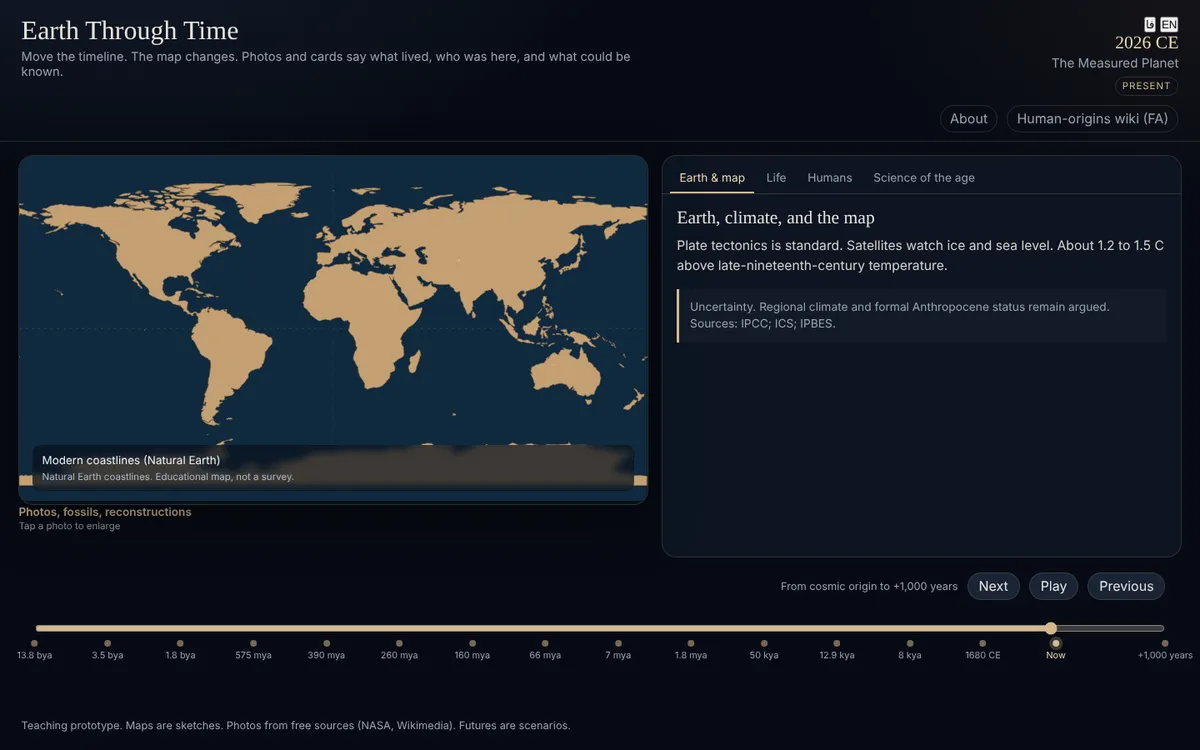
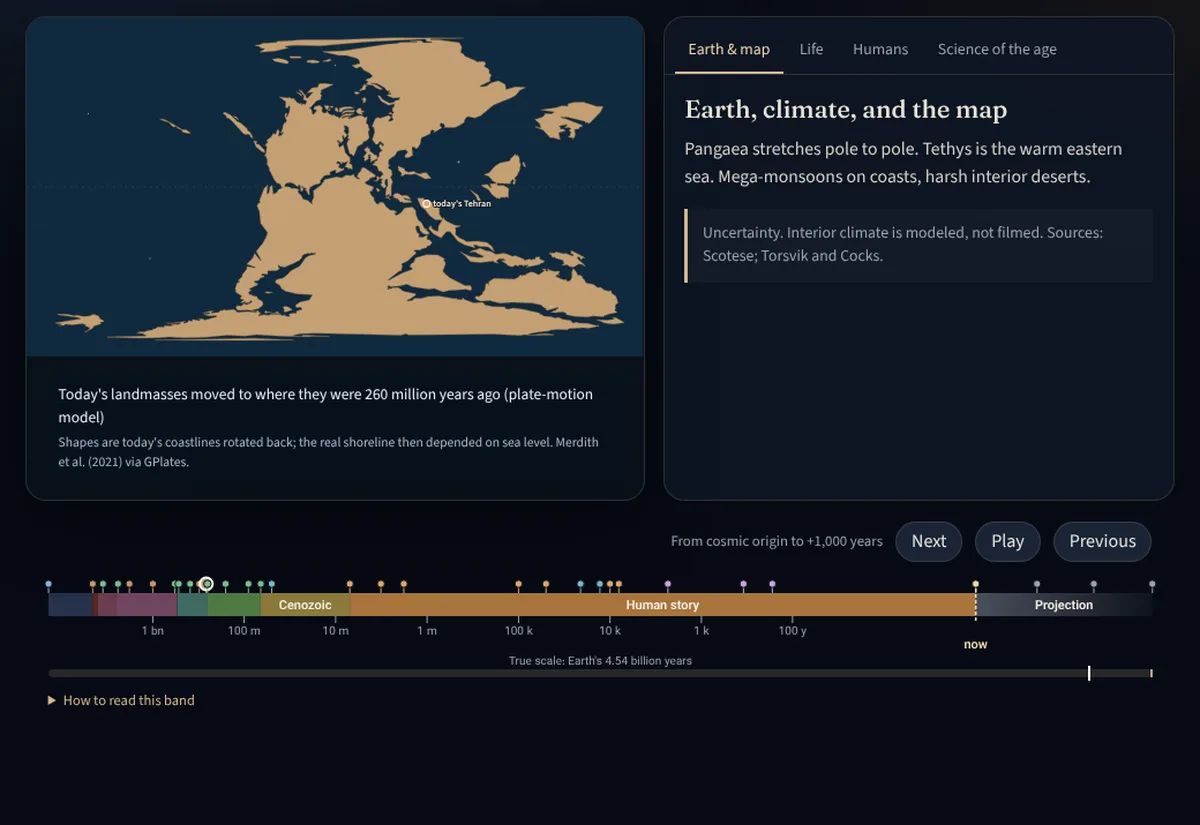
Portfolio: Slow Verse joins Selected work; atlas shown with its new time band and plate-model maps
- Slow Verse moves from More projects to Selected work, with a screenshot
  of the whole-archive timeline and role / built / decision lines about
  the data-visualisation work.
- Once Upon a Planet: new screenshot (Permian from the plate model, log
  time band) and text that says what was built.
- New skill: Data visualisation and information design (EN and FA).
- Pages regenerated with tools/build.py.

Claude-Session: https://claude.ai/code/session_016f1Khnm21m2Rzgn4s24Jbr

diff --git a/fa/index.html b/fa/index.html
@@ -127,9 +127,20 @@
 <div class="meta"><span class="pill">آموزش</span><span class="pill">داده</span></div>
 <div class="title-row"><svg class="ic lg" aria-hidden="true"><use href="#i-planet"/></svg><h3>روزی روزگاری، زمین</h3></div>
 <p class="aka">نام محصول: <span class="ltr">Chrono Atlas</span></p><p class="pulse"><span>آخرین تغییر: </span><time datetime="2026-11-18T08:31+01:00" data-rel>۱۸ نوامبر ۲۰۲۶</time></p>
-<p>نوار زمان را از مهبانگ تا هزار سال بعد بکشید و ببینید قارهها، زندگی و جامعهها زیر دستتان چطور عوض میشوند.</p>
-<ul class="facts"><li><span>نقش من</span>چشمانداز محصول، نقشهٔ راه انتشار، اصول داده</li><li><span>ساختهشده</span>نقشه و نوار زمان، فهرست پایگاههای دادهای علمی، نمای پوشش داده</li><li><span>تصمیم</span>هر ادعا منبع دارد؛ جای خالیِ داده، خالی نشان داده میشود، نه سرزمین خالی</li></ul>
+<p>یک نوار را از مهبانگ تا هزار سال بعد بکشید و ببینید قارهها، زندگی و جامعهها چطور عوض میشوند. نوار مقیاس واقعی زیرش نشان میدهد داستان انسان چقدر باریک است.</p>
+<ul class="facts"><li><span>نقش من</span>چشمانداز محصول، نقشهٔ راه انتشار، اصول داده، طراحی اطلاعات</li><li><span>ساختهشده</span>نوار زمان لگاریتمی؛ نقشهها از مدل منتشرشدهٔ حرکت ورقهها (Merdith و همکاران ۲۰۲۱) با جای تهرانِ امروز؛ فهرست پایگاههای دادهای علمی</li><li><span>تصمیم</span>هر ادعا منبع دارد؛ جای خالیِ داده، خالی نشان داده میشود، نه سرزمین خالی</li></ul>
 <div class="links"><a class="btn sm" href="https://maryamjaberi.github.io/earth-through-time/">باز کردن</a><a class="textlink" href="https://github.com/MaryamJaberi/earth-through-time-new">کد</a></div>
+</div>
+</article>
+<article class="feature">
+<div class="shot"><img src="../assets/img/fa/verse.webp" alt="شعرِ آهسته" loading="lazy" width="1200" height="750"></div>
+<div>
+<div class="meta"><span class="pill">مصورسازی داده</span><span class="pill">فرهنگ</span></div>
+<div class="title-row"><svg class="ic lg" aria-hidden="true"><use href="#i-verse"/></svg><h3>شعرِ آهسته</h3></div>
+<p class="aka">نام محصول: <span class="ltr">گنجور نو</span></p><p class="pulse"><span>آخرین تغییر: </span><time datetime="2026-11-19T19:23+01:00" data-rel>۱۹ نوامبر ۲۰۲۶</time></p>
+<p>شعر فارسی را آهسته بخوانید و یکجا ببینید: ۲۴۶ شاعر روی یک خط زمانِ بزرگشدنی، زادگاههایی که با گذر سدهها روشن میشوند، اینکه چه کسی از چه کسی بیت گرفت، و خاندانهای شاهنامه به شکل درختی واقعی.</p>
+<ul class="facts"><li><span>نقش من</span>طراحی محصول و اطلاعات: چه چیزی، در چه بزرگنمایی، برای چه کسی</li><li><span>ساختهشده</span>خوانشخانهای روی رابط باز گنجور؛ پنج نمای گردشپذیر از کل گنجینه</li><li><span>تصمیم</span>اول کل تصویر، بعد گردش؛ نامها روی هم نمیافتند و نامهای مهم هرگز بینام نمیمانند</li></ul>
+<div class="links"><a class="btn sm" href="https://maryamjaberi.github.io/ganjoor-no/">باز کردن</a><a class="textlink" href="https://github.com/MaryamJaberi/ganjoor-no-new">کد</a></div>
 </div>
 </article>
 </div>
@@ -140,7 +151,6 @@
 <ul class="mlist">
 <li><svg class="ic lg" aria-hidden="true"><use href="#i-bazaar"/></svg><div><h3>بازارچهٔ دانش</h3><p class="aka" style="margin:0">نام محصول: دانشسرا</p><p>پنج ویکی فارسی که با هم حرف میزنند: روانشناسی، جامعهشناسی، ژنتیک، فلسفه و زبانشناسی، با ۲۵ پلِ مشخص میانشان. هر منبع درجهبندی شده.</p><p class="pulse"><span>آخرین تغییر: </span><time datetime="2026-11-19T04:36+00:00" data-rel>۱۹ نوامبر ۲۰۲۶</time></p><div class="links"><a class="textlink" href="../daneshsara/">باز کردن</a></div></div></li>
 <li><svg class="ic lg" aria-hidden="true"><use href="#i-night"/></svg><div><h3>شبگردان</h3><p class="aka" style="margin:0">نام محصول: میز خدا</p><p>دستیار گردانندهٔ مافیا: پخش نقش، اجرای شب، شمارش رأی. قانونها دادهاند، پس سناریوی تازه برنامهنویس لازم ندارد.</p><p class="pulse"><span>آخرین تغییر: </span><time datetime="2026-11-18T08:30+01:00" data-rel>۱۸ نوامبر ۲۰۲۶</time></p><div class="links"><a class="textlink" href="../mafia/">باز کردن</a><a class="textlink" href="https://github.com/MaryamJaberi/Mafia-new">کد</a></div></div></li>
-<li><svg class="ic lg" aria-hidden="true"><use href="#i-verse"/></svg><div><h3>شعرِ آهسته</h3><p class="aka" style="margin:0">نام محصول: گنجور نو</p><p>شعر فارسی را آهسته بخوانید: بازطراحی آرامترِ شناختهشدهترین آرشیو آنلاین شعر فارسی.</p><p class="pulse"><span>آخرین تغییر: </span><time datetime="2026-11-19T19:23+01:00" data-rel>۱۹ نوامبر ۲۰۲۶</time></p><div class="links"><a class="textlink" href="https://maryamjaberi.github.io/ganjoor-no/">باز کردن</a><a class="textlink" href="https://github.com/MaryamJaberi/ganjoor-no-new">کد</a></div></div></li>
 <li><svg class="ic lg" aria-hidden="true"><use href="#i-side"/></svg><div><h3>شانهبهشانه</h3><p class="aka" style="margin:0">نام کاری: همراه</p><p>کسی را پیدا کنید که با او کار کنید، یاد بگیرید یا بیرون بروید. نسخهٔ اول ساخته شده؛ شش انتشار بعدی مستند شدهاند.</p><div class="links"><span class="soon">در حال ساخت</span></div></div></li>
 </ul>
 </div>
@@ -159,7 +169,7 @@
 </section>
 <section class="sec" id="experience" aria-labelledby="xp-h">
 <div class="wrap xp">
-<div class="side"><h2 id="xp-h">سابقه</h2><h3>مهارتهای محصول</h3><ul><li>مالکیت نقشهٔ راه و بکلاگ</li><li>کشف و اولویتبندی</li><li>مدیریت ذینفعان</li><li>اجایل و اسکرام</li><li>معیارها و تست A/B</li></ul><h3>مهارتهای طراحی</h3><ul><li>پژوهش کاربر و تست کاربردپذیری</li><li>معماری اطلاعات</li><li>طراحی خدمت و بازی</li><li>نمونهسازی</li></ul><h3>تحصیلات</h3><ul><li>کارشناسی ارشد مهندسی صنایع، ۲۰۲۳</li><li>گواهی طراحی UX گوگل</li><li>گواهی مدیر محصول IBM</li><li>اجایل و اسکرام، IBM / SkillUp</li></ul></div>
+<div class="side"><h2 id="xp-h">سابقه</h2><h3>مهارتهای محصول</h3><ul><li>مالکیت نقشهٔ راه و بکلاگ</li><li>کشف و اولویتبندی</li><li>مدیریت ذینفعان</li><li>اجایل و اسکرام</li><li>معیارها و تست A/B</li></ul><h3>مهارتهای طراحی</h3><ul><li>پژوهش کاربر و تست کاربردپذیری</li><li>معماری اطلاعات</li><li>مصورسازی داده و طراحی اطلاعات</li><li>طراحی خدمت و بازی</li><li>نمونهسازی</li></ul><h3>تحصیلات</h3><ul><li>کارشناسی ارشد مهندسی صنایع، ۲۰۲۳</li><li>گواهی طراحی UX گوگل</li><li>گواهی مدیر محصول IBM</li><li>اجایل و اسکرام، IBM / SkillUp</li></ul></div>
 <div><div class="job"><div class="yr">۲۰۲۲ تا امروز</div><div><h3>طراح مستقل محصول و بازی</h3><p class="co">روتردام</p><p>هشت محصول از خودم ساختهام: هفتتا منتشر شده و یکی در حال ساخت است. SoloNovate را راه انداختم تا هوای تیم را به سازمانهای هلندی عرضه کنم.</p></div></div><div class="job"><div class="yr">۲۰۲۰ تا ۲۰۲۲</div><div><h3>مدیر محصول جستوجو</h3><p class="co">همراه اول، بیش از ۱۰۰۰ کارمند</p><p>نقشهٔ راه جستوجوی خرید را رهبری کردم. تشخیص گفتار فارسی را از صفر با ۳۰۰۰ ساعت صدای اعتبارسنجیشده شروع کردم. بیش از ۱۰۰۰ فروشنده را وارد کردم، جعبههای پاسخ را در بیش از ۲۰ سرویس راه انداختم (۱۰٪ کلیک درست بیشتر) و خطاهای انتشار بینتیمی را ۱۰٪ کم کردم.</p></div></div><div class="job"><div class="yr">۲۰۱۸ تا ۲۰۲۰</div><div><h3>Associate Product Manager</h3><p class="co">آرشان مدیا (گپفیلم)</p><p>مالک ویدیوی درخواستی در اندروید، اندروید تیوی، وب، کودک و CMS بودم. کاربران را از ۶۰ هزار به بیش از ۵ میلیون رساندیم، میانگین نشست حدود پنج دقیقه بیشتر شد و CMS برای بیش از ۱۰۰ ادمین بزرگ شد.</p></div></div><div class="job"><div class="yr">۲۰۱۶ تا ۲۰۱۸</div><div><h3>Product Owner</h3><p class="co">شایا فناوریهای هوشمند</p><p>اسکرام را راه انداختم (حدود ۱۰٪ باگ کمتر) و بکلاگ سامانهٔ دانشگاه پیام نور با ۱۹ میلیون دانشجو را مدیریت کردم. در راهاندازی مدیااد سهم داشتم که بعدها دومین پلتفرم بزرگ تبلیغات بومی ایران شد.</p></div></div></div>
 </div>
 </section>

diff --git a/index.html b/index.html
@@ -127,9 +127,20 @@
 <div class="meta"><span class="pill">Education</span><span class="pill">Data</span></div>
 <div class="title-row"><svg class="ic lg" aria-hidden="true"><use href="#i-planet"/></svg><h3>Once Upon a Planet</h3></div>
 <p class="aka">Live as: <span class="ltr">Chrono Atlas</span></p><p class="pulse"><span>Last change: </span><time datetime="2026-11-18T08:31+01:00" data-rel>18 Nov 2026</time></p>
-<p>Drag a timeline from the Big Bang to 1,000 years ahead and watch continents, life and societies change under your cursor.</p>
-<ul class="facts"><li><span>Role</span>Product vision, release roadmap, data principles</li><li><span>Built</span>Map and timeline, a catalogue of scholarly databases, a data-coverage view</li><li><span>Decision</span>Every claim carries its source; missing data is shown as missing, never as empty land</li></ul>
+<p>Drag one band from the Big Bang to 1,000 years ahead and watch continents, life and societies change. A true-scale strip under it shows how thin the human story really is.</p>
+<ul class="facts"><li><span>Role</span>Product vision, release roadmap, data principles, information design</li><li><span>Built</span>Log-scale time band; maps from a published plate model (Merdith et al. 2021) with today's Tehran marked; a catalogue of scholarly databases</li><li><span>Decision</span>Every claim carries its source; missing data is shown as missing, never as empty land</li></ul>
 <div class="links"><a class="btn sm" href="https://maryamjaberi.github.io/earth-through-time/">Open</a><a class="textlink" href="https://github.com/MaryamJaberi/earth-through-time-new">Code</a></div>
+</div>
+</article>
+<article class="feature">
+<div class="shot"><img src="assets/img/en/verse.webp" alt="Slow Verse" loading="lazy" width="1200" height="750"></div>
+<div>
+<div class="meta"><span class="pill">Data visualisation</span><span class="pill">Culture</span></div>
+<div class="title-row"><svg class="ic lg" aria-hidden="true"><use href="#i-verse"/></svg><h3>Slow Verse</h3></div>
+<p class="aka">Live as: <span class="ltr">Ganjoor No</span></p><p class="pulse"><span>Last change: </span><time datetime="2026-11-19T19:23+01:00" data-rel>19 Nov 2026</time></p>
+<p>Persian poetry, read slowly, and seen whole: 246 poets on one zoomable timeline, birthplaces lighting up as the centuries play, who borrowed lines from whom, and the Shahnameh's families as a real tree.</p>
+<ul class="facts"><li><span>Role</span>Product and information design: what to show, at what zoom, for whom</li><li><span>Built</span>A reader on Ganjoor's open API; five pan-and-zoom views of the whole archive</li><li><span>Decision</span>Show the whole first, then let people wander; names never overlap and the important ones are never left unnamed</li></ul>
+<div class="links"><a class="btn sm" href="https://maryamjaberi.github.io/ganjoor-no/">Open</a><a class="textlink" href="https://github.com/MaryamJaberi/ganjoor-no-new">Code</a></div>
 </div>
 </article>
 </div>
@@ -140,7 +151,6 @@
 <ul class="mlist">
 <li><svg class="ic lg" aria-hidden="true"><use href="#i-bazaar"/></svg><div><h3>Knowledge Bazaar</h3><p class="aka" style="margin:0">Live as: Daneshsara</p><p>Five Persian wikis that talk to each other: psychology, sociology, genetics, philosophy and linguistics, joined by 25 mapped bridges. Every source graded.</p><p class="pulse"><span>Last change: </span><time datetime="2026-11-19T04:36+00:00" data-rel>19 Nov 2026</time></p><div class="links"><a class="textlink" href="daneshsara/">Open</a></div></div></li>
 <li><svg class="ic lg" aria-hidden="true"><use href="#i-night"/></svg><div><h3>Night Shift</h3><p class="aka" style="margin:0">Live as: Miz Khoda</p><p>The Mafia narrator's assistant: deal roles, run the night, count the votes. Rules are data, so a new scenario needs no developer.</p><p class="pulse"><span>Last change: </span><time datetime="2026-11-18T08:30+01:00" data-rel>18 Nov 2026</time></p><div class="links"><a class="textlink" href="mafia/">Open</a><a class="textlink" href="https://github.com/MaryamJaberi/Mafia-new">Code</a></div></div></li>
-<li><svg class="ic lg" aria-hidden="true"><use href="#i-verse"/></svg><div><h3>Slow Verse</h3><p class="aka" style="margin:0">Live as: Ganjoor No</p><p>Persian poetry, read slowly: a calmer redesign of the best-known online poetry archive.</p><p class="pulse"><span>Last change: </span><time datetime="2026-11-19T19:23+01:00" data-rel>19 Nov 2026</time></p><div class="links"><a class="textlink" href="https://maryamjaberi.github.io/ganjoor-no/">Open</a><a class="textlink" href="https://github.com/MaryamJaberi/ganjoor-no-new">Code</a></div></div></li>
 <li><svg class="ic lg" aria-hidden="true"><use href="#i-side"/></svg><div><h3>Side by Side</h3><p class="aka" style="margin:0">Working name: Hamrah</p><p>Find someone to work, learn or go out with. MVP built; the next six releases are specified.</p><div class="links"><span class="soon">In progress</span></div></div></li>
 </ul>
 </div>
@@ -159,7 +169,7 @@
 </section>
 <section class="sec" id="experience" aria-labelledby="xp-h">
 <div class="wrap xp">
-<div class="side"><h2 id="xp-h">Experience</h2><h3>Product</h3><ul><li>Roadmaps and backlog ownership</li><li>Discovery and prioritisation</li><li>Stakeholder management</li><li>Agile and Scrum</li><li>Metrics and A/B testing</li></ul><h3>Design</h3><ul><li>UX research and usability testing</li><li>Information architecture</li><li>Service and game design</li><li>Prototyping</li></ul><h3>Education</h3><ul><li>MSc Industrial Engineering, 2023</li><li>Google UX Design certificate</li><li>IBM Product Manager certificate</li><li>Agile and Scrum, IBM / SkillUp</li></ul></div>
+<div class="side"><h2 id="xp-h">Experience</h2><h3>Product</h3><ul><li>Roadmaps and backlog ownership</li><li>Discovery and prioritisation</li><li>Stakeholder management</li><li>Agile and Scrum</li><li>Metrics and A/B testing</li></ul><h3>Design</h3><ul><li>UX research and usability testing</li><li>Information architecture</li><li>Data visualisation and information design</li><li>Service and game design</li><li>Prototyping</li></ul><h3>Education</h3><ul><li>MSc Industrial Engineering, 2023</li><li>Google UX Design certificate</li><li>IBM Product Manager certificate</li><li>Agile and Scrum, IBM / SkillUp</li></ul></div>
 <div><div class="job"><div class="yr">2022 – now</div><div><h3>Independent product and game designer</h3><p class="co">Rotterdam</p><p>Built eight products of my own: seven are live, one is in progress. Founded SoloNovate to offer Teamweather to Dutch organisations.</p></div></div><div class="job"><div class="yr">2020 – 2022</div><div><h3>Product Manager, Search</h3><p class="co">Hamrahe Aval (MCI), 1,000+ employees</p><p>Led the shopping-search roadmap. Started Persian speech recognition from zero with 3,000 hours of validated audio. Onboarded 1,000+ retailers, launched answer boxes on 20+ services (+10% correct clicks) and cut cross-team release errors by 10%.</p></div></div><div class="job"><div class="yr">2018 – 2020</div><div><h3>Associate Product Manager</h3><p class="co">Arshan Media (GapFilm)</p><p>Owned video-on-demand across Android, Android TV, web, kids and CMS. Grew users from 60,000 to over 5 million, added about five minutes to average sessions and scaled the CMS to 100+ admins.</p></div></div><div class="job"><div class="yr">2016 – 2018</div><div><h3>Product Owner</h3><p class="co">Shaya Smart Technologies</p><p>Introduced Scrum (about 10% fewer bugs) and owned the backlog for Payame Noor University's platform, 19 million students. Co-launched MediaAd, later Iran's second-largest native advertising platform.</p></div></div></div>
 </div>
 </section>

diff --git a/tools/build.py b/tools/build.py
@@ -69,17 +69,21 @@ EN = dict(
                     ("built", "Installable offline web app; CEFR-levelled learning spin-off with three modes"),
                     ("status", "Live; playtests with real groups are next")]),
         dict(key="planet", aka="Chrono Atlas", tags=["Education", "Data"],
-             p="Drag a timeline from the Big Bang to 1,000 years ahead and watch continents, life and societies change under your cursor.",
-             facts=[("role", "Product vision, release roadmap, data principles"),
-                    ("built", "Map and timeline, a catalogue of scholarly databases, a data-coverage view"),
+             p="Drag one band from the Big Bang to 1,000 years ahead and watch continents, life and societies change. A true-scale strip under it shows how thin the human story really is.",
+             facts=[("role", "Product vision, release roadmap, data principles, information design"),
+                    ("built", "Log-scale time band; maps from a published plate model (Merdith et al. 2021) with today's Tehran marked; a catalogue of scholarly databases"),
                     ("decision", "Every claim carries its source; missing data is shown as missing, never as empty land")]),
+        dict(key="verse", aka="Ganjoor No", tags=["Data visualisation", "Culture"],
+             p="Persian poetry, read slowly, and seen whole: 246 poets on one zoomable timeline, birthplaces lighting up as the centuries play, who borrowed lines from whom, and the Shahnameh's families as a real tree.",
+             facts=[("role", "Product and information design: what to show, at what zoom, for whom"),
+                    ("built", "A reader on Ganjoor's open API; five pan-and-zoom views of the whole archive"),
+                    ("decision", "Show the whole first, then let people wander; names never overlap and the important ones are never left unnamed")]),
     ],
     more_h="More projects",
     more_p="Smaller, stranger or more personal. Each one taught me something the bigger ones needed.",
     more=[
         ("bazaar", "Daneshsara", "Five Persian wikis that talk to each other: psychology, sociology, genetics, philosophy and linguistics, joined by 25 mapped bridges. Every source graded."),
         ("night", "Miz Khoda", "The Mafia narrator's assistant: deal roles, run the night, count the votes. Rules are data, so a new scenario needs no developer."),
-        ("verse", "Ganjoor No", "Persian poetry, read slowly: a calmer redesign of the best-known online poetry archive."),
         ("side", "Hamrah", "Find someone to work, learn or go out with. MVP built; the next six releases are specified."),
     ],
     how_h="How I work",
@@ -91,7 +95,7 @@ EN = dict(
            ("Test and iterate", "Against my own checklist first, then with experts and users. Tik-Tak has a 10-scenario release checklist.")],
     xp_h="Experience",
     skills=[("Product", ["Roadmaps and backlog ownership", "Discovery and prioritisation", "Stakeholder management", "Agile and Scrum", "Metrics and A/B testing"]),
-            ("Design", ["UX research and usability testing", "Information architecture", "Service and game design", "Prototyping"]),
+            ("Design", ["UX research and usability testing", "Information architecture", "Data visualisation and information design", "Service and game design", "Prototyping"]),
             ("Education", ["MSc Industrial Engineering, 2023", "Google UX Design certificate", "IBM Product Manager certificate", "Agile and Scrum, IBM / SkillUp"])],
     jobs=[("2022 – now", "Independent product and game designer", "Rotterdam",
            "Built eight products of my own: seven are live, one is in progress. Founded SoloNovate to offer Teamweather to Dutch organisations."),
@@ -150,17 +154,21 @@ FA = dict(
                     ("built", "وباپ نصبشدنی و آفلاین؛ نسخهٔ آموزشی با سطحبندی CEFR و سه حالت بازی"),
                     ("status", "منتشر شده؛ قدم بعدی بازیآزمایی با گروههای واقعی")]),
         dict(key="planet", aka="Chrono Atlas", tags=["آموزش", "داده"],
-             p="نوار زمان را از مهبانگ تا هزار سال بعد بکشید و ببینید قارهها، زندگی و جامعهها زیر دستتان چطور عوض میشوند.",
-             facts=[("role", "چشمانداز محصول، نقشهٔ راه انتشار، اصول داده"),
-                    ("built", "نقشه و نوار زمان، فهرست پایگاههای دادهای علمی، نمای پوشش داده"),
+             p="یک نوار را از مهبانگ تا هزار سال بعد بکشید و ببینید قارهها، زندگی و جامعهها چطور عوض میشوند. نوار مقیاس واقعی زیرش نشان میدهد داستان انسان چقدر باریک است.",
+             facts=[("role", "چشمانداز محصول، نقشهٔ راه انتشار، اصول داده، طراحی اطلاعات"),
+                    ("built", "نوار زمان لگاریتمی؛ نقشهها از مدل منتشرشدهٔ حرکت ورقهها (Merdith و همکاران ۲۰۲۱) با جای تهرانِ امروز؛ فهرست پایگاههای دادهای علمی"),
                     ("decision", "هر ادعا منبع دارد؛ جای خالیِ داده، خالی نشان داده میشود، نه سرزمین خالی")]),
+        dict(key="verse", aka="گنجور نو", tags=["مصورسازی داده", "فرهنگ"],
+             p="شعر فارسی را آهسته بخوانید و یکجا ببینید: ۲۴۶ شاعر روی یک خط زمانِ بزرگشدنی، زادگاههایی که با گذر سدهها روشن میشوند، اینکه چه کسی از چه کسی بیت گرفت، و خاندانهای شاهنامه به شکل درختی واقعی.",
+             facts=[("role", "طراحی محصول و اطلاعات: چه چیزی، در چه بزرگنمایی، برای چه کسی"),
+                    ("built", "خوانشخانهای روی رابط باز گنجور؛ پنج نمای گردشپذیر از کل گنجینه"),
+                    ("decision", "اول کل تصویر، بعد گردش؛ نامها روی هم نمیافتند و نامهای مهم هرگز بینام نمیمانند")]),
     ],
     more_h="پروژههای دیگر",
     more_p="کوچکتر، عجیبتر یا شخصیتر. هر کدام چیزی یادم داد که پروژههای بزرگتر لازمش داشتند.",
     more=[
         ("bazaar", "دانشسرا", "پنج ویکی فارسی که با هم حرف میزنند: روانشناسی، جامعهشناسی، ژنتیک، فلسفه و زبانشناسی، با ۲۵ پلِ مشخص میانشان. هر منبع درجهبندی شده."),
         ("night", "میز خدا", "دستیار گردانندهٔ مافیا: پخش نقش، اجرای شب، شمارش رأی. قانونها دادهاند، پس سناریوی تازه برنامهنویس لازم ندارد."),
-        ("verse", "گنجور نو", "شعر فارسی را آهسته بخوانید: بازطراحی آرامترِ شناختهشدهترین آرشیو آنلاین شعر فارسی."),
         ("side", "همراه", "کسی را پیدا کنید که با او کار کنید، یاد بگیرید یا بیرون بروید. نسخهٔ اول ساخته شده؛ شش انتشار بعدی مستند شدهاند."),
     ],
     how_h="روش کار من",
@@ -172,7 +180,7 @@ FA = dict(
            ("تست و بهبود", "اول با چکلیست خودم، بعد با متخصصها و کاربرها. تیکتاک یک چکلیست ۱۰ سناریویی برای هر انتشار دارد.")],
     xp_h="سابقه",
     skills=[("مهارتهای محصول", ["مالکیت نقشهٔ راه و بکلاگ", "کشف و اولویتبندی", "مدیریت ذینفعان", "اجایل و اسکرام", "معیارها و تست A/B"]),
-            ("مهارتهای طراحی", ["پژوهش کاربر و تست کاربردپذیری", "معماری اطلاعات", "طراحی خدمت و بازی", "نمونهسازی"]),
+            ("مهارتهای طراحی", ["پژوهش کاربر و تست کاربردپذیری", "معماری اطلاعات", "مصورسازی داده و طراحی اطلاعات", "طراحی خدمت و بازی", "نمونهسازی"]),
             ("تحصیلات", ["کارشناسی ارشد مهندسی صنایع، ۲۰۲۳", "گواهی طراحی UX گوگل", "گواهی مدیر محصول IBM", "اجایل و اسکرام، IBM / SkillUp"])],
     jobs=[("۲۰۲۲ تا امروز", "طراح مستقل محصول و بازی", "روتردام",
            "هشت محصول از خودم ساختهام: هفتتا منتشر شده و یکی در حال ساخت است. SoloNovate را راه انداختم تا هوای تیم را به سازمانهای هلندی عرضه کنم."),
@@ -455,7 +463,7 @@ def home_page(t):
             title = f'{names["tik"]} & {names["poly"]}' if L == "en" else f'{names["tik"]} و {names["poly"]}'
             icons = icon("tik", "ic lg") + icon("poly", "ic lg")
         else:
-            src = "wb-report" if k == "tw" else "atlas"
+            src = {"tw": "wb-report", "verse": "verse"}.get(k, "atlas")
             shot = f'<div class="shot"><img src="{img}{src}.webp" alt="{names[k]}" loading="lazy" width="1200" height="750"></div>'
             title, icons = names[k], icon(k, "ic lg")
         pills = ("".join(f'<span class="pill case">{t["case"]}</span>' for _ in [1] if f.get("case"))
